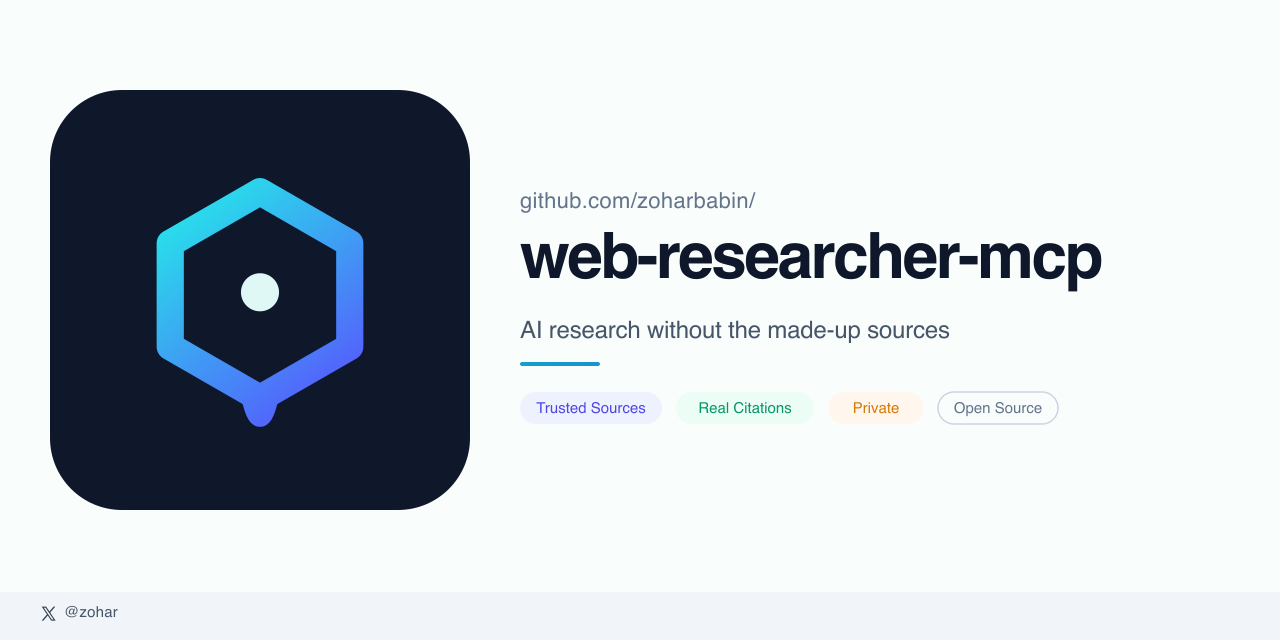
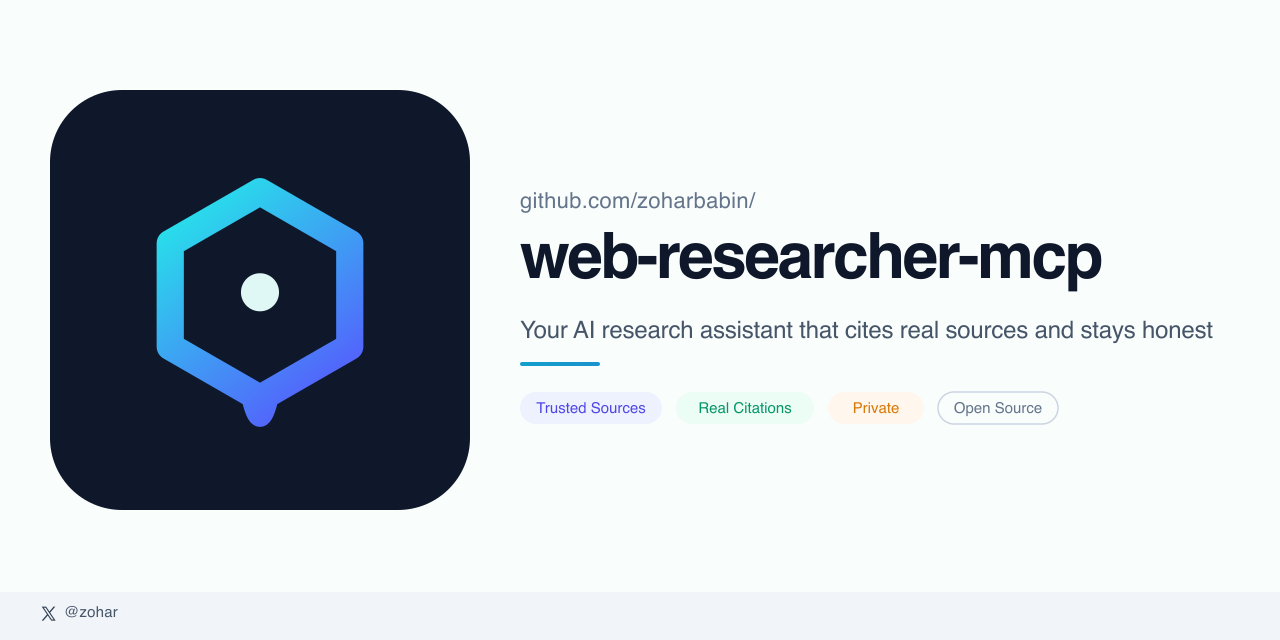
docs: unify project description across all surfaces
Replace all variants of the old tagline with the new unified description:
"Your AI research assistant that cites real sources and stays honest."

Updated: server.json, mcpb/manifest.json, .claude-plugin/plugin.json,
.goreleaser.yml (OCI labels + Homebrew), Dockerfile, Dockerfile.release,
README.md, mkdocs.yml, BRAND_GUIDELINES.md, demo-record.sh, and SVG assets.

Changed region(s): [[0.4062, 0.5, 0.9688, 0.5312]]

diff --git a/README.md b/README.md
@@ -4,12 +4,13 @@
 </p>
 <h1 align="center">web-researcher-mcp</h1>
 <p align="center">
-  <strong>AI research without the made-up sources.</strong>
+  <strong>Your AI research assistant that cites real sources and stays honest.</strong>
 </p>
 <p align="center">
-  Perplexity makes things up. ChatGPT searches garbage. Your reputation is on the line.<br/>
-  This tool lets you choose exactly which sources your AI searches —<br/>
-  so every citation is real, every link works, and nothing is fabricated.
+  Search the entire web or narrow it down to just the sites you trust;<br/>
+  medical journals, court databases, news outlets, academic papers.<br/>
+  Analyze the full source, not just snippets. Links that work, citations you can trust,<br/>
+  no made up closed garden pre-synthesized results.
 </p>
 
 <p align="center">

diff --git a/docs/BRAND_GUIDELINES.md b/docs/BRAND_GUIDELINES.md
@@ -8,11 +8,11 @@ How to represent web-researcher-mcp visually and verbally. Follow these guidelin
 
 ### Tagline
 
-**AI research without the made-up sources.**
+**Your AI research assistant that cites real sources and stays honest.**
 
 ### Supporting message
 
-Perplexity makes things up. ChatGPT searches garbage. Your reputation is on the line. This tool lets you choose exactly which sources your AI searches — so every citation is real, every link works, and nothing is fabricated.
+Search the entire web or narrow it down to just the sites you trust; medical journals, court databases, news outlets, academic papers. Analyze the full source, not just snippets. Links that work, citations you can trust, no made up closed garden pre-synthesized results.
 
 ### Three positioning pillars
 